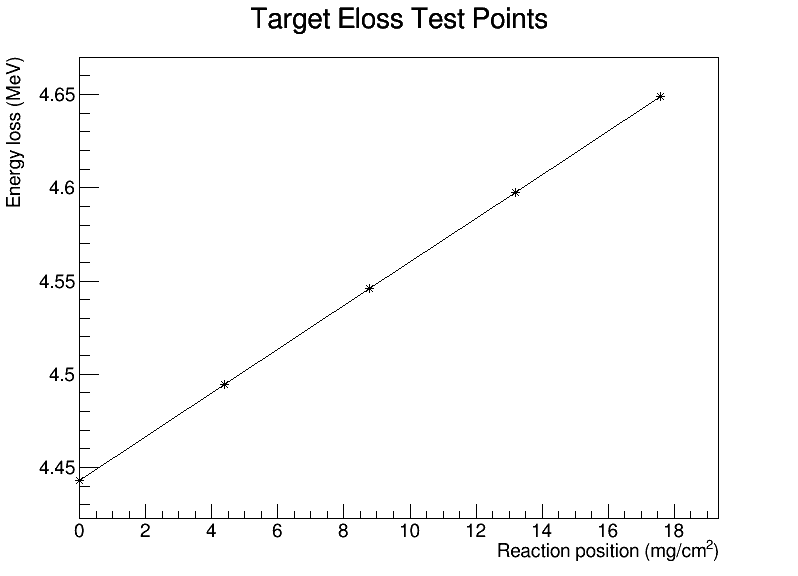
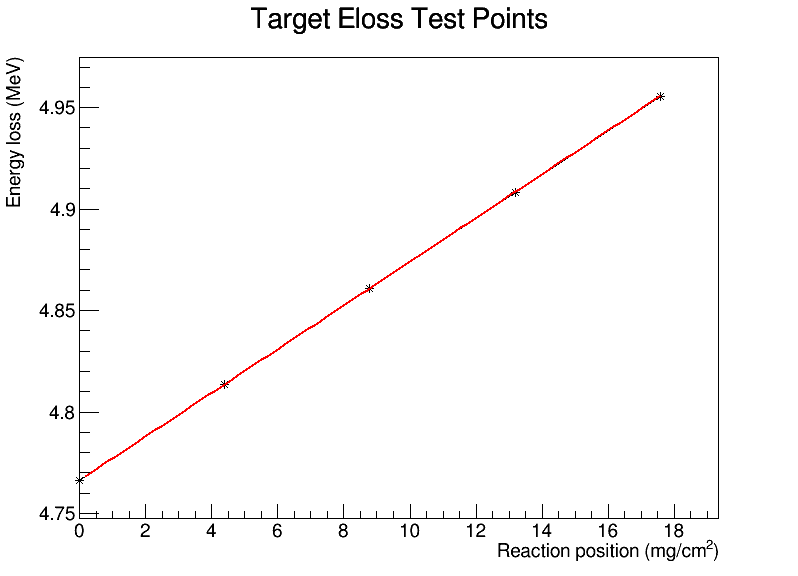
target test point bug fix

diff --git a/macros/targElossTestPoints.C b/macros/targElossTestPoints.C
@@ -36,6 +36,9 @@ void targElossTestPoints() {
 
 	// Create TTreeReader
 	TTreeReader myReader("t", file);
+	TTreeReaderValue<double> dETarg(myReader, "targEloss");
+	TTreeReaderValue<double> inthick(myReader, "inthick");
+	TTreeReaderValue<double> inthickrecimp(myReader, "inthickrecimp");
 	TTreeReaderValue<bool> isFragDet(myReader, "isFragDet");
 	TTreeReaderValue<bool> isNeutHit(myReader, "isNeutHit");
 	TTreeReaderValue<vector<double>> dETests(myReader, "dETests");
@@ -45,8 +48,8 @@ void targElossTestPoints() {
 	// Skip to desired entry
 	for (int i = 0;;) {
 		if (!myReader.Next()) break;
-		if (!(*isFragDet) || !(*isNeutHit)) continue;
-		if (i == 2000) break;
+		if (!(*isFragDet) || !(*isNeutHit) || (((*inthick)-(*inthickrecimp)) > -0.5)) continue;
+		if (i == 0) break;
 		i++; 
 	}
 
@@ -65,6 +68,21 @@ void targElossTestPoints() {
 	TGraph g(n, x, y);
 	g.SetTitle("Target Eloss Test Points;Reaction position (mg/cm^{2});Energy loss (MeV)");
 	g.Draw("AC*");
+
+	// Linear fit to target total energy loss function
+	TF1 elossFit("linear", "([0]*x)+[1]");
+	elossFit.SetParName(0, "Slope");
+	elossFit.SetParName(1, "Intercept");
+	elossFit.SetRange(-0.1, thickness+0.1);
+
+	g.Fit(&elossFit, "NRQ", "", -0.1, thickness+0.1);
+	elossFit.Draw("same");
+
+	// Invert target energy loss function and calculate target reaction position
+	double inthickreconimproved = min(max(((*dETarg) - elossFit.GetParameter(1)) / elossFit.GetParameter(0), 0.), (double)thickness);
+	cout << "Real target Eloss: " << (*dETarg) << endl;
+	cout << "Simulation reconstructed difference: " << ((*inthick)-(*inthickrecimp)) << endl;
+	cout << "Macro reconstructed difference: " << ((*inthick)-inthickreconimproved) << endl;
 
 	c->SaveAs("target_eloss_test_points.png");
 
